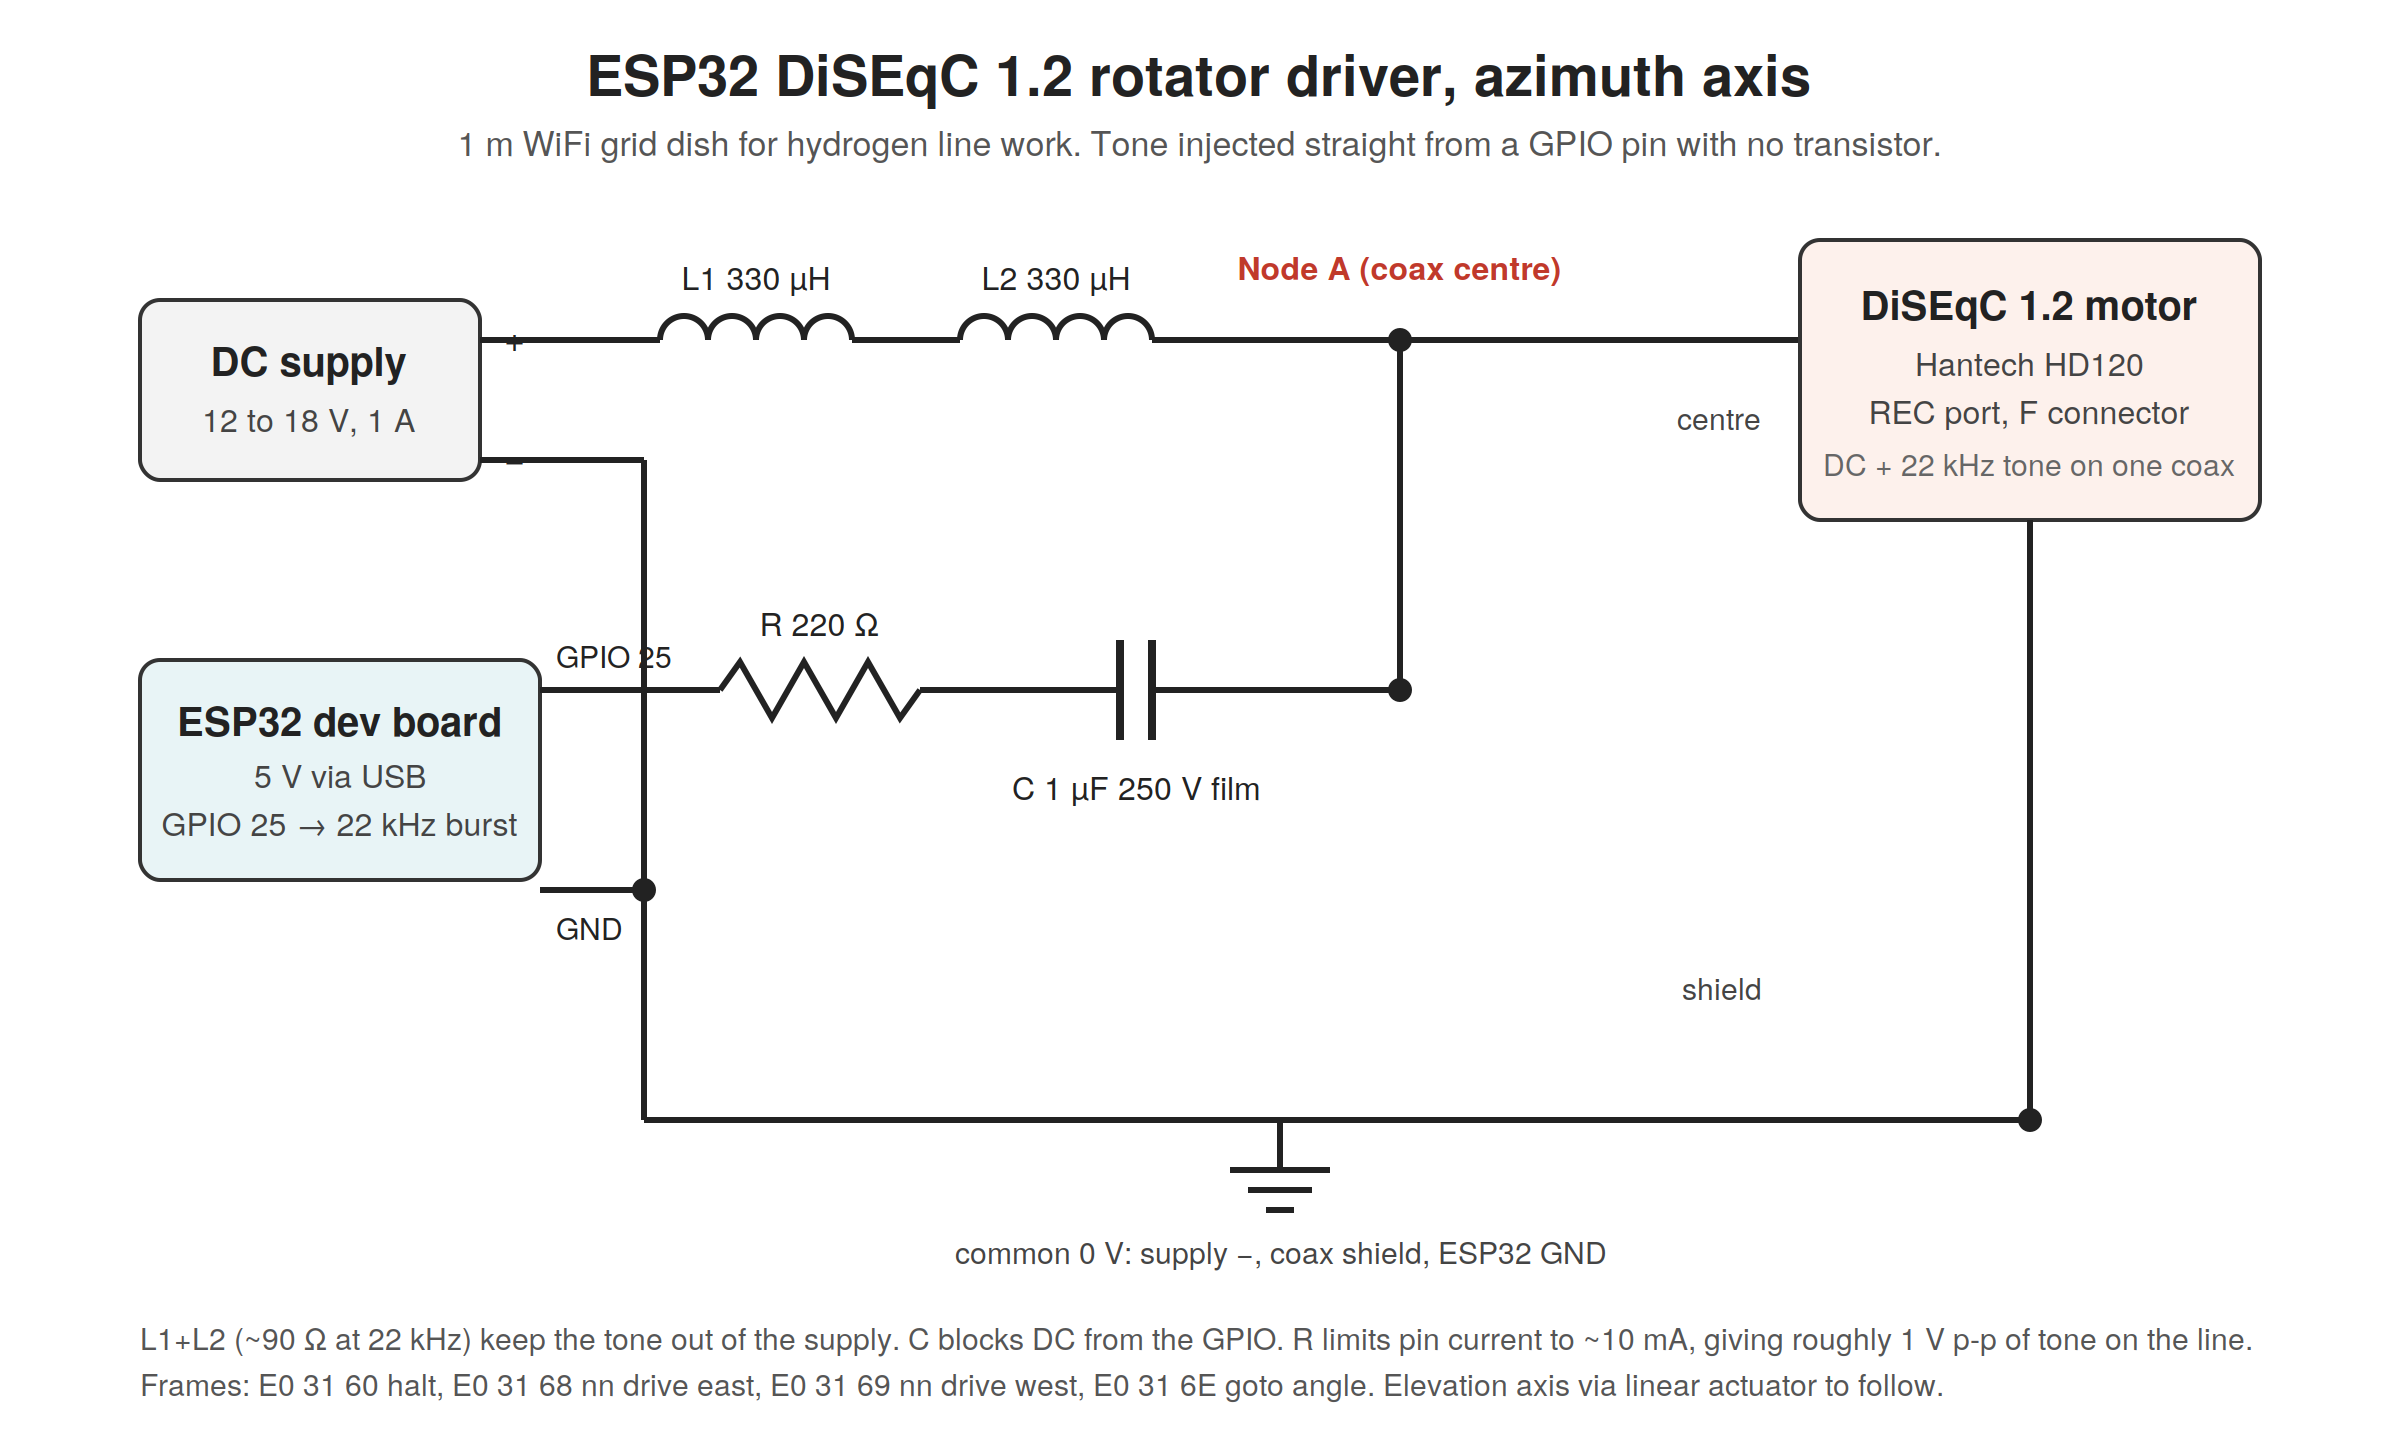
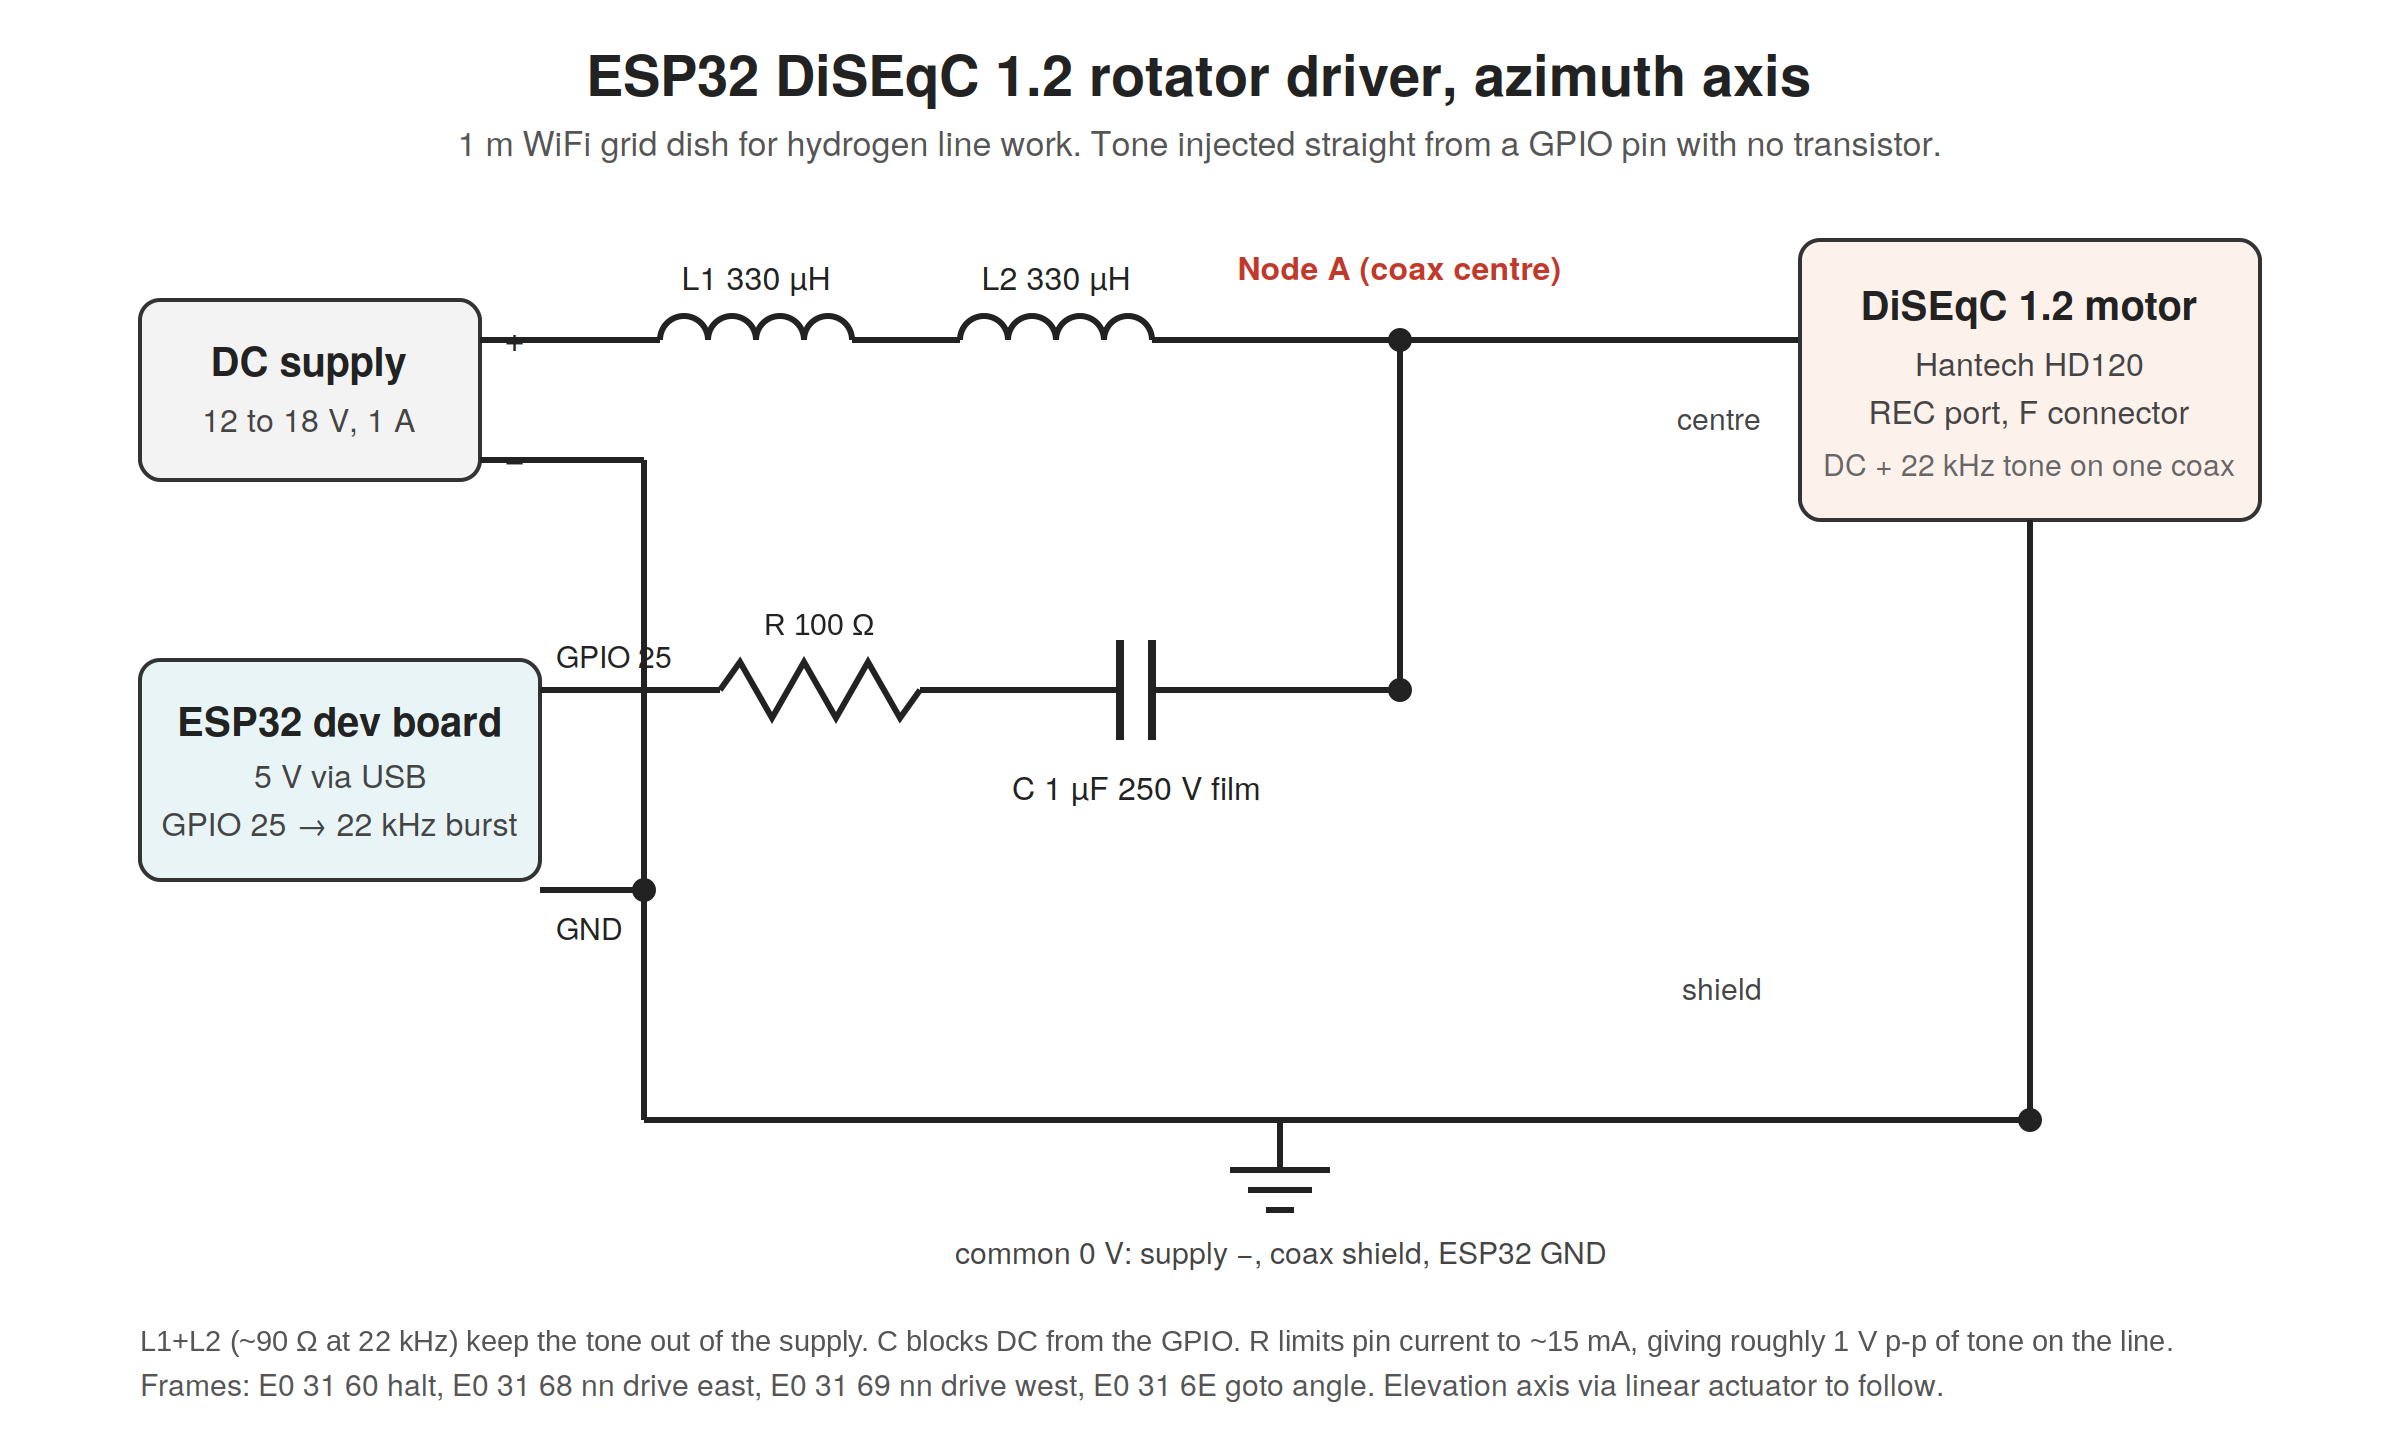
Show current pointing: dead-reckoned position, true azimuth, calibration
The firmware replays every frame it sends against the motor speed and step
size, keeps the estimate in NVS, and reports pos, moving and az in /status.
Web page turns the dish drawing to the current angle with the target as a
dashed outline. Adds /gotoaz, /setpos and /cal. R is 100 ohm everywhere.

Claude-Session: https://claude.ai/code/session_01SKHTrEruvubxHmyvwh4CoJ

Changed region(s): [[0.0625, 0.9062, 0.9375, 0.9375], [0.3125, 0.4062, 0.375, 0.4375]]

diff --git a/README.md b/README.md
@@ -72,7 +72,9 @@ espota.py -i <esp32-ip> -p 3232 --auth=<ota-password> -f <path-to>/diseqc_rotato
 
 ## Using it
 
-Web UI: open `http://<esp32-ip>/`. Slider for goto, jog buttons, halt, live status.
+Web UI: open `http://<esp32-ip>/`. The dish drawing turns to the current pointing and
+shows the angle under it, with true azimuth once calibrated. A dashed outline marks the
+target. Slider for goto, jog buttons, halt, live status, calibration.
 
 HTTP API:
 
@@ -81,22 +83,46 @@ HTTP API:
 /east?steps=5     jog east 5 steps (1 to 128), steps=0 runs until /halt
 /west?steps=5
 /halt
+/gotoaz?az=318    go to a true azimuth (after calibration, must be inside the motor's range)
 /raw?cmd=E0316A00 send any DiSEqC frame as hex
-/status           JSON: target, last command, uptime, ip, rssi
+/status           JSON: pos, moving, az, target, last command, calibration, uptime, ip, rssi
+/setpos?deg=-12.5 tell the firmware where the motor really is, sends nothing to the motor
+/cal?aznow=318    calibration, sends nothing to the motor, see below
 ```
 
 A request with a missing or malformed argument gets a 400 and the motor is not
 touched. There is no login on the web UI or the API, so keep the board on a
 network you trust.
 
-`target` is the last angle that was commanded. The motor gives no position
-feedback, so jog moves do not change it.
+## Current pointing
+
+A DiSEqC motor sends nothing back, so the current angle is dead reckoning. The
+firmware replays every frame it sends (goto, jog, run, halt, goto stored, raw
+frames too) against the motor's speed and step size, and `pos` in `/status` moves
+toward the target at that speed. The estimate is kept in flash, so it survives a
+reboot of the ESP32. `target` is the last angle commanded with goto.
+
+Calibrate once:
+
+```
+/cal?speed=1.9     motor speed in deg/s. Time a goto from 0 to 60 and divide. Depends on supply voltage
+/cal?step=0.1      size of one jog step in degrees
+/cal?dir=-1        use -1 if true azimuth shrinks when the motor angle grows
+/cal?aznow=318     the dish points at true azimuth 318 right now (compass, corrected for declination)
+/cal?az0=300       or give the true azimuth of motor angle 0 directly
+```
+
+If the estimate drifts (power cut in the middle of a move, motor stalled against
+its limit), read the scale on the motor and send `/setpos?deg=<reading>`, or use
+the two fields at the bottom of the web page.
 
 Serial (115200): `e 5`, `w 5`, `h`, `g 30`, `s` (store reference 0),
-`z` (go to reference), `r E0 31 60` (raw), `t` (5 s test tone), `i` (print IP).
+`z` (go to reference), `r E0 31 60` (raw), `p -12.5` (set the position estimate),
+`t` (5 s test tone), `i` (print IP).
 
 The angle is relative to the motor's own centre mark. Calibrate the offset to
-true azimuth once with a compass and add it in your tracking software.
+true azimuth once with a compass (`/cal?aznow=`), after that `/gotoaz` and the web
+page work in true azimuth.
 
 ## DiSEqC 1.2 reference
 
@@ -125,4 +151,4 @@ Bit timing: 22 kHz tone, 0 = 1.0 ms tone + 0.5 ms silence, 1 = 0.5 ms tone +
 
 The 22 kHz tone must reach the motor at 0.4 to 0.9 V peak to peak. With the
 values above it lands around 1 V. If your motor ignores commands, check the
-resistor value first (220 k instead of 220 ohm cost me an evening).
+resistor value first (a kilohm part where the 100 ohm belonged cost me an evening).

diff --git a/hardware/bom.md b/hardware/bom.md
@@ -9,7 +9,7 @@ your local supplier.
 | 2 | MCU board | ESP32 dev board, WROOM-32 | 1 | 5 | Powered from its own USB port |
 | 3 | L1, L2 | 330 uH toroidal inductor, 5 A | 2 | 2 | In series, supply + to coax centre. Must carry the motor current without saturating |
 | 4 | C | 1 uF 250 V film capacitor | 1 | 1 | Blocks the motor DC from the GPIO pin. Film, not electrolytic |
-| 5 | R | see README, 1/4 W | 1 | 0.1 | Between GPIO 25 and C |
+| 5 | R | 100 ohm, 1/4 W | 1 | 0.1 | Between GPIO 25 and C |
 | 6 | Supply | 12 to 18 V DC, 1 A or more | 1 | 8 | 15 to 18 V moves the dish better under load |
 | 7 | Coax | RG6 with F connectors | as needed | 5 | Board to the motor's REC port |
 | 8 | F connector | chassis or inline F female | 1 | 1 | Coax entry on the board |
